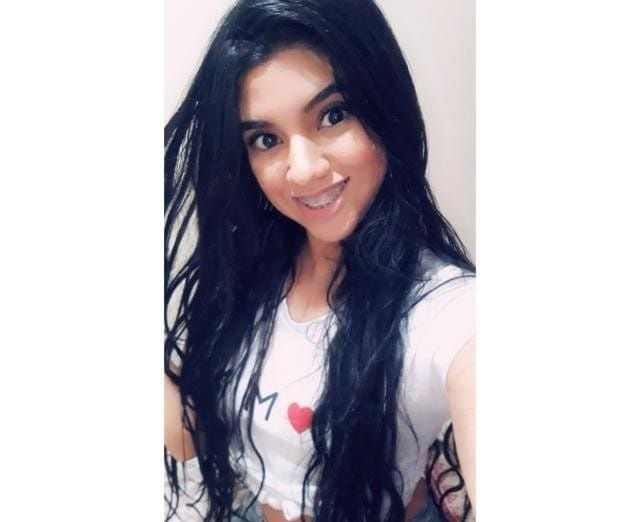
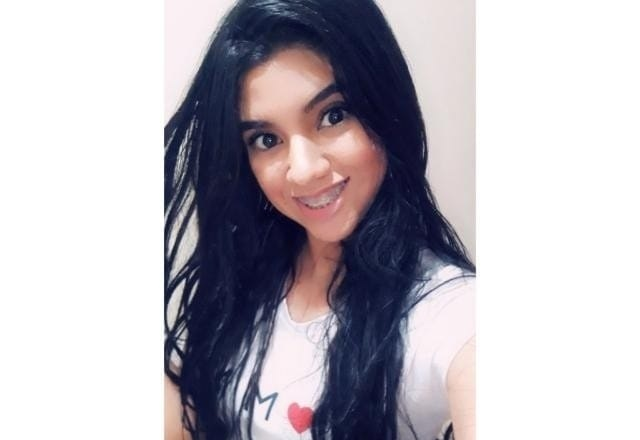
terminado

Changed region(s): [[0.25, 0.0, 0.75, 1.0]]

diff --git a/src/components/Intro.js b/src/components/Intro.js
@@ -1,17 +1,30 @@
 import React from "react";
 import foto from "../imagenes/fotolaura.jpg";
+import Icono from "./Icono";
+
 const Intro = () => {
   return (
     <section>
       <div className="mi-description">
-        <p>
-          Hola mi nombre es Laura vargas sanchez soy apasionada por el
-          desarrollo frontend me encantan los videojuegos sueño con algun dia
-          desarrollar uno
+        <h1 className="text-center mt-2 mb-1">Laura Vargas</h1>
+        <p className="text-center">
+          Hola, mi nombre es Laura Vargas Sanchez. Soy apasionada por el
+          desarrollo frontend. Me encantan los videojuegos sueño con algún día
+          desarrollar uno. <br /> Soy amante a los caballos, amo la naturaleza y
+          la luna.
         </p>
       </div>
+
       <div className="foto">
-        <img src={foto} className="img-fluid" alt="foto-Laura" width="100%" />
+        <img src={foto} className="img-fluid" alt="foto-Laura" />
+      </div>
+      <div className="text-center mt-3 mb-5">
+        <h3>Habilidades</h3>
+        <Icono icono="fa-html5" color="orange" />
+        <Icono icono="fa-js" color="yellow" />
+        <Icono icono="fa-css3" color="blue" />
+        <Icono icono="fa-react" color="blue" />
+        <Icono icono="fa-github" color="black" />
       </div>
     </section>
   );

diff --git a/src/components/Footer.js b/src/components/Footer.js
@@ -1,0 +1,29 @@
+import React from "react";
+import Icono from "./Icono";
+
+const Footer = () => {
+  return (
+    <footer className="row mt-5 p-5">
+      <div className="col col-12 text-center">
+        <h2>Contactame</h2>
+      </div>
+      <div className="col col-12 text-center">
+        <Icono
+          icono="fa-facebook-square"
+          link="https://www.facebook.com/laura.vargas.167/"
+        />
+        <Icono
+          icono="fa-whatsapp"
+          link="https://api.whatsapp.com/send?phone=+573008720156"
+        />
+        <Icono
+          icono="fa-linkedin"
+          link="https://www.linkedin.com/in/laura-vargas-sanchez-3a653017b/"
+        />
+        <Icono icono="fa-github" link="https://github.com/laura4614" />
+      </div>
+    </footer>
+  );
+};
+
+export default Footer;

diff --git a/src/pages/Portafolio.js b/src/pages/Portafolio.js
@@ -1,16 +1,16 @@
-import React, { Component } from "react";
-import Navegation from "../components/Navegation";
+import React from "react";
 import Intro from "../components/Intro";
-import Projects from "../components/projects/Projects";
+import Projects from "../components/Projects";
+import Footer from "../components/Footer";
 
 const Portafolio = () => {
   return (
     <main className="container-fluid">
       <div className="row justify-content-center mt-5">
-        <div className="col col-12 col-md-9 col-lg-9  bg-primary">
-          <Navegation />
+        <div className="col col-12 col-md-9 col-lg-9 portafolio-container">
           <Intro />
           <Projects />
+          <Footer />
         </div>
       </div>
     </main>

diff --git a/src/App.css b/src/App.css
@@ -1,0 +1,31 @@
+body {
+  background-image: url("./imagenes/bg.jpg");
+  background-size: 500px;
+}
+.portafolio-container {
+  margin-bottom: 2em;
+  border-radius: 10px;
+  box-shadow: 3px 3px 5px black;
+  background-color: #80deea;
+}
+.mi-description p {
+  font-size: 1.2em;
+}
+.foto {
+  margin: auto;
+  width: 100%;
+  max-width: 500px;
+}
+.foto img {
+  border-radius: 30px;
+  box-shadow: 2px 2px 7px blue;
+}
+.project-card {
+  box-shadow: 2px 2px 5px rgba(0, 0, 0, 0.459);
+  transition: all 0.5s;
+  border-radius: 7px;
+}
+.project-card:hover {
+  box-shadow: 2px 2px 10px rgba(0, 0, 0, 0.459);
+  transform: translateY(-10px) scale(1.01);
+}

diff --git a/src/components/Projects.js b/src/components/Projects.js
@@ -1,7 +1,6 @@
 import React from "react";
-import ProjectCard from "./Project";
-import fotolaura from "../../imagenes/fotolaura.jpg";
-import ProjectsList from "../../datos/datos_projectos";
+import ProjectCard from "./projects/ProjectCard";
+import ProjectsList from "../datos/datos_projectos";
 
 const Projects = () => {
   return (
@@ -9,8 +8,6 @@ const Projects = () => {
       <h1>Proyectos</h1>
       <div className="row d-flex justify-content-center">
         {ProjectsList.map((project, index) => {
-          console.log(index);
-
           return (
             <ProjectCard
               key={index}

diff --git a/src/components/projects/ProjectCard.js b/src/components/projects/ProjectCard.js
@@ -5,7 +5,7 @@ const ProjectCard = ({ name, description, img, url }) => {
 
   return (
     <div className="col col-12 col-sm-6 col-md-6 col-lg-4 mt-4 mb-4">
-      <div className="card m-auto" style={{ width: "15rem" }}>
+      <div className="card m-auto project-card" style={{ width: "15rem" }}>
         <img className="card-img-top" src={img} alt={name} />
         <div className="card-body">
           <h5 className="card-title">{name}</h5>

diff --git a/src/components/Icono.js b/src/components/Icono.js
@@ -1,0 +1,12 @@
+import React from "react";
+
+const Icono = ({ icono, link, color }) => (
+  <a href={link} target="_blank" rel="noopener noreferrer">
+    <i
+      className={`fab ${icono} m-3`}
+      style={{ fontSize: "50px", color: color ? color : "black" }}
+    ></i>
+  </a>
+);
+
+export default Icono;

diff --git a/public/index.html b/public/index.html
@@ -9,7 +9,7 @@
       name="description"
       content="Web site created using create-react-app"
     />
-    
+    <script src="https://cdnjs.cloudflare.com/ajax/libs/font-awesome/5.13.1/js/all.min.js"></script>
     <title>Mi portafolio</title>
   </head>
   <body>

diff --git a/src/index.js b/src/index.js
@@ -2,6 +2,7 @@ import React from "react";
 import ReactDOM from "react-dom";
 import Portafolio from "./pages/Portafolio";
 import "bootstrap/dist/css/bootstrap.min.css";
+import "./App.css";
 
 ReactDOM.render(
   <React.StrictMode>
